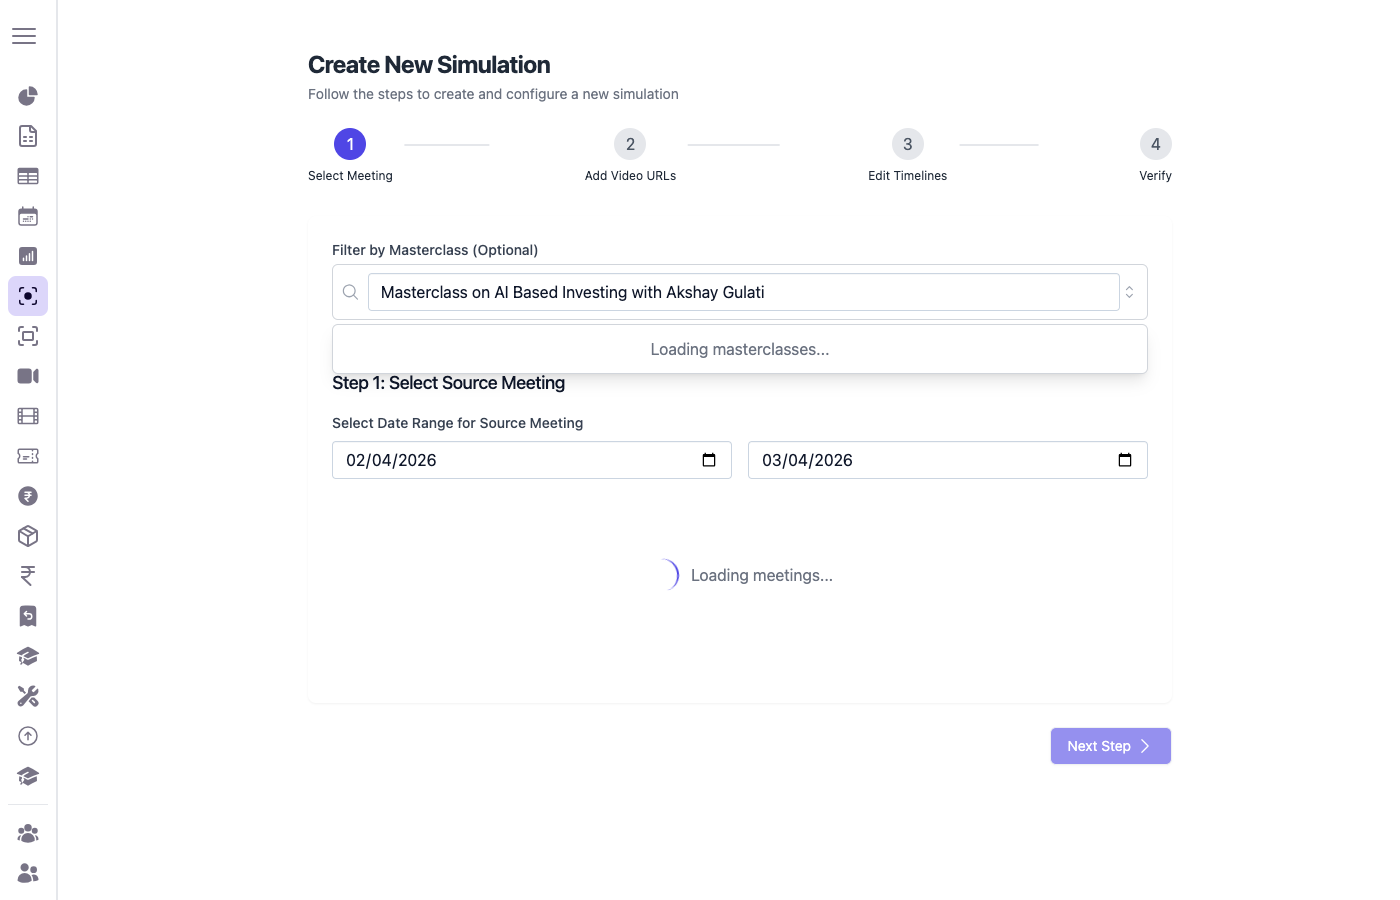
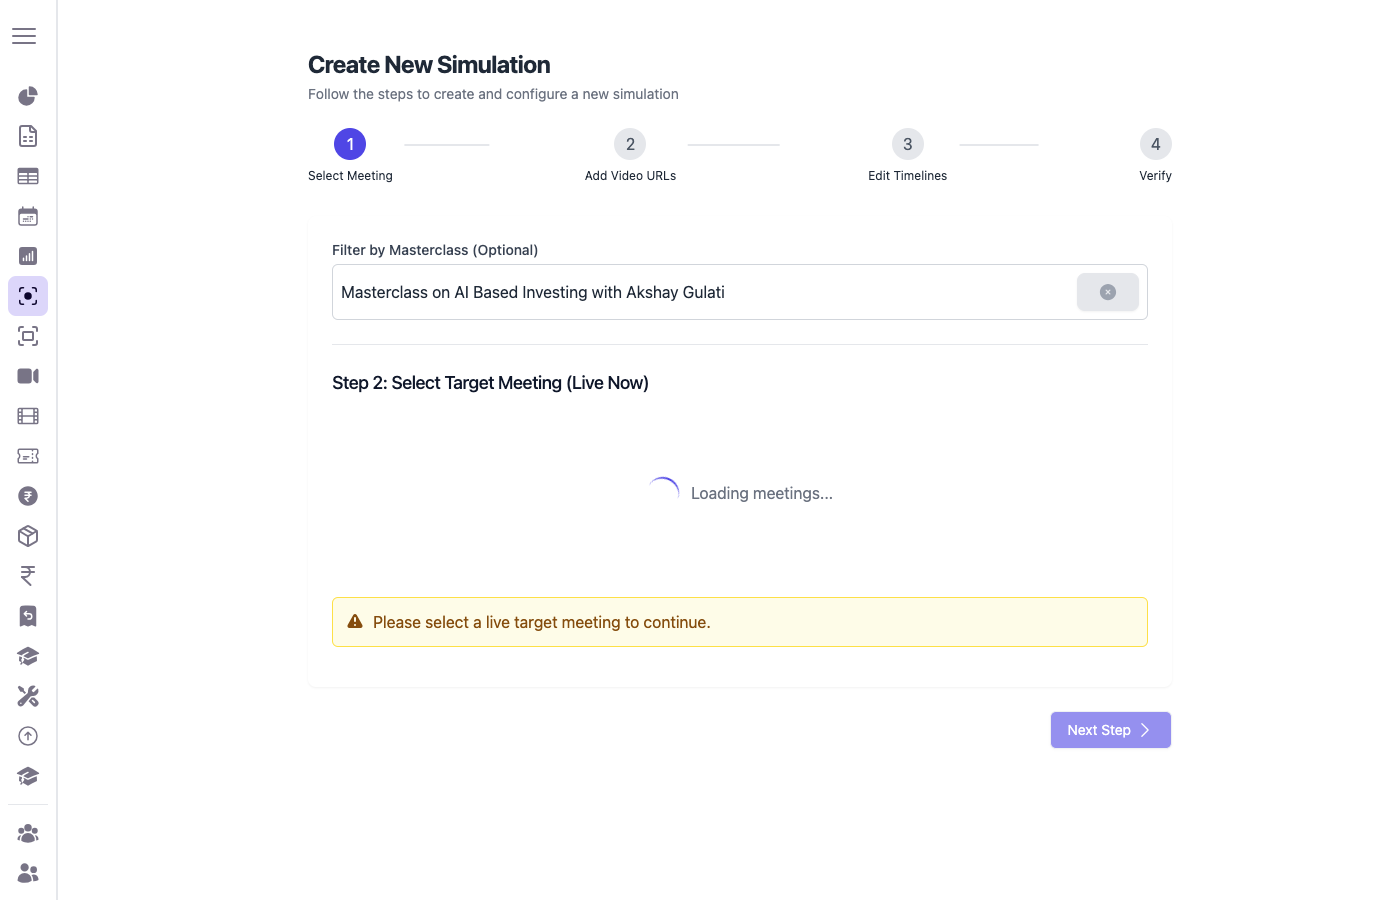
Does Exact MAtch of the target meeting now

diff --git a/run_simulation.py b/run_simulation.py
@@ -24,6 +24,7 @@ import os
 import sys
 import time
 import schedule
+import re as _re
 from datetime import datetime
 from playwright.sync_api import sync_playwright, TimeoutError as PlaywrightTimeout
 
@@ -46,18 +47,19 @@ SOURCE_MEETING_NAME       = "Masterclass on AI Based Investing with Akshay Gulat
 
 # Schedule: run_time (HH:MM) → exact target meeting name
 SCHEDULE = {
-    "11:57": "Masterclass on AI Based Super Investing with Akshay Gulati 12",
-    "12:27": "Masterclass on AI Based Super Investing with Akshay Gulati 12.5",
-    "12:57": "Masterclass on AI Based Super Investing with Akshay Gulati 1",
-    "13:27": "Masterclass on AI Based Super Investing with Akshay Gulati 1.5",
-    "13:57": "Masterclass on AI Based Super Investing with Akshay Gulati 2",
-    "14:27": "Masterclass on AI Based Super Investing with Akshay Gulati 2.5",
-    "14:57": "Masterclass on AI Based Super Investing with Akshay Gulati 3",
-    "15:27": "Masterclass on AI Based Super Investing with Akshay Gulati 3.5",
-    "15:57": "Masterclass on AI Based Super Investing with Akshay Gulati 4",
-    "16:27": "Masterclass on AI Based Super Investing with Akshay Gulati 4.5",
-    "16:57": "Masterclass on AI Based Super Investing with Akshay Gulati 5",
-    "17:27": "Masterclass on AI Based Super Investing with Akshay Gulati 5.5",
+    "11:55": "Masterclass on AI Based Super Investing with Akshay Gulati 12",
+    "12:25": "Masterclass on AI Based Super Investing with Akshay Gulati 12.5",
+    "12:55": "Masterclass on AI Based Super Investing with Akshay Gulati 1",
+    "13:25": "Masterclass on AI Based Super Investing with Akshay Gulati 1.5",
+    "13:55": "Masterclass on AI Based Super Investing with Akshay Gulati 2",
+    "14:25": "Masterclass on AI Based Super Investing with Akshay Gulati 2.5",
+    "14:55": "Masterclass on AI Based Super Investing with Akshay Gulati 3",
+    "15:25": "Masterclass on AI Based Super Investing with Akshay Gulati 3.5",
+    "15:55": "Masterclass on AI Based Super Investing with Akshay Gulati 4",
+    "16:25": "Masterclass on AI Based Super Investing with Akshay Gulati 4.5",
+    "16:55": "Masterclass on AI Based Super Investing with Akshay Gulati 5",
+    "17:25": "Masterclass on AI Based Super Investing with Akshay Gulati 5.5",
+    "17:55": "Masterclass on AI Based Super Investing with Akshay Gulati 6",
 }
 
 # Portal URLs
@@ -70,7 +72,7 @@ AUTH_STATE_FILE = "auth_state.json"
 #         saves a screenshot so you can verify it looks correct
 # False = runs for real, clicks "Start Simulation"
 # ─────────────────────────────────────────────────────────────
-DRY_RUN = False
+DRY_RUN = True
 
 
 # ─────────────────────────────────────────────────────────────
@@ -212,7 +214,8 @@ def run_simulation(target_meeting_name):
 
             # Step 1f: Click the target meeting
             print(f"   Selecting target meeting: {target_meeting_name}")
-            target_card = page.locator("h3").filter(has_text=target_meeting_name).first
+            # target_card = page.locator("h3").filter(has_text=_re.compile(_re.escape(target_meeting_name))).first
+            target_card = page.get_by_role("heading", name=target_meeting_name, exact=True).first
             target_card.scroll_into_view_if_needed()
             target_card.click()
             print("   ✅ Target meeting selected")
